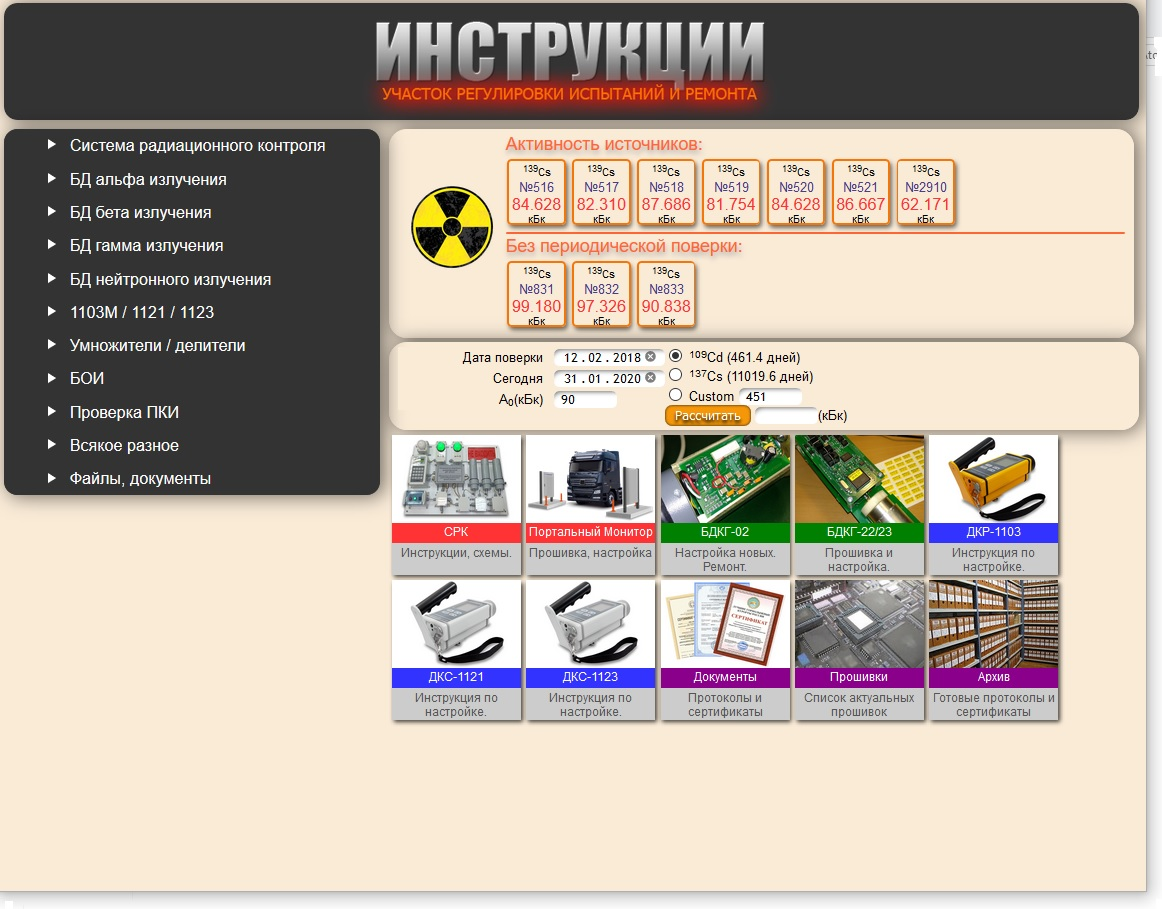
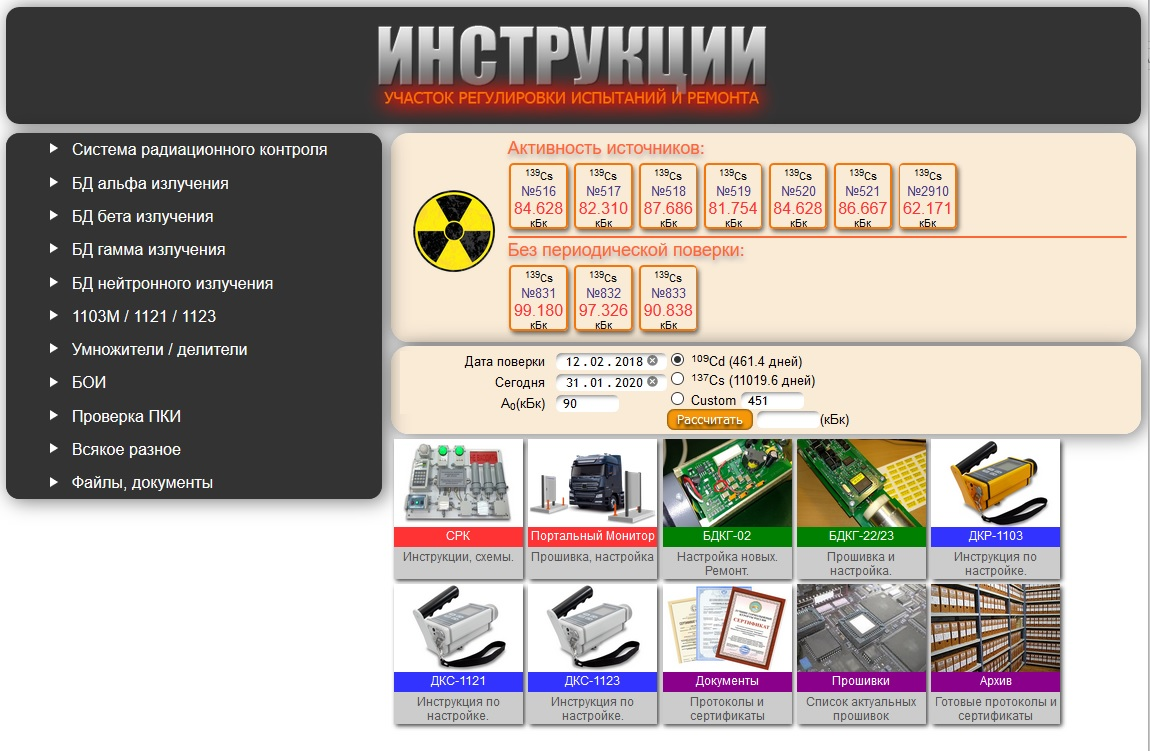
work 81

diff --git a/style.css b/style.css
@@ -370,7 +370,7 @@ img {
 /*endregion*/
 
 body {
-    background-color: antiquewhite;
+    /*background-color: antiquewhite;*/
 }
 
 body > div {
